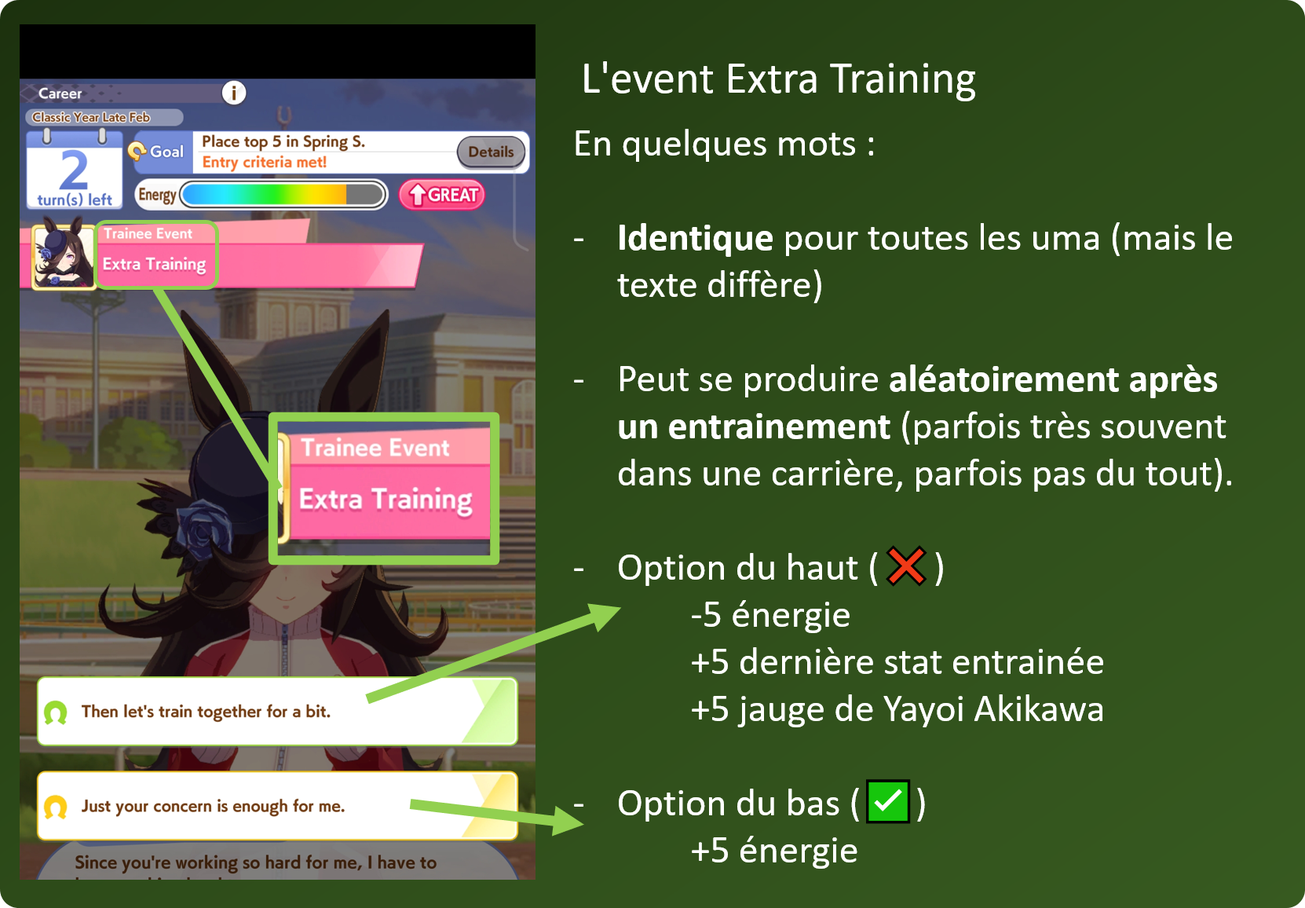
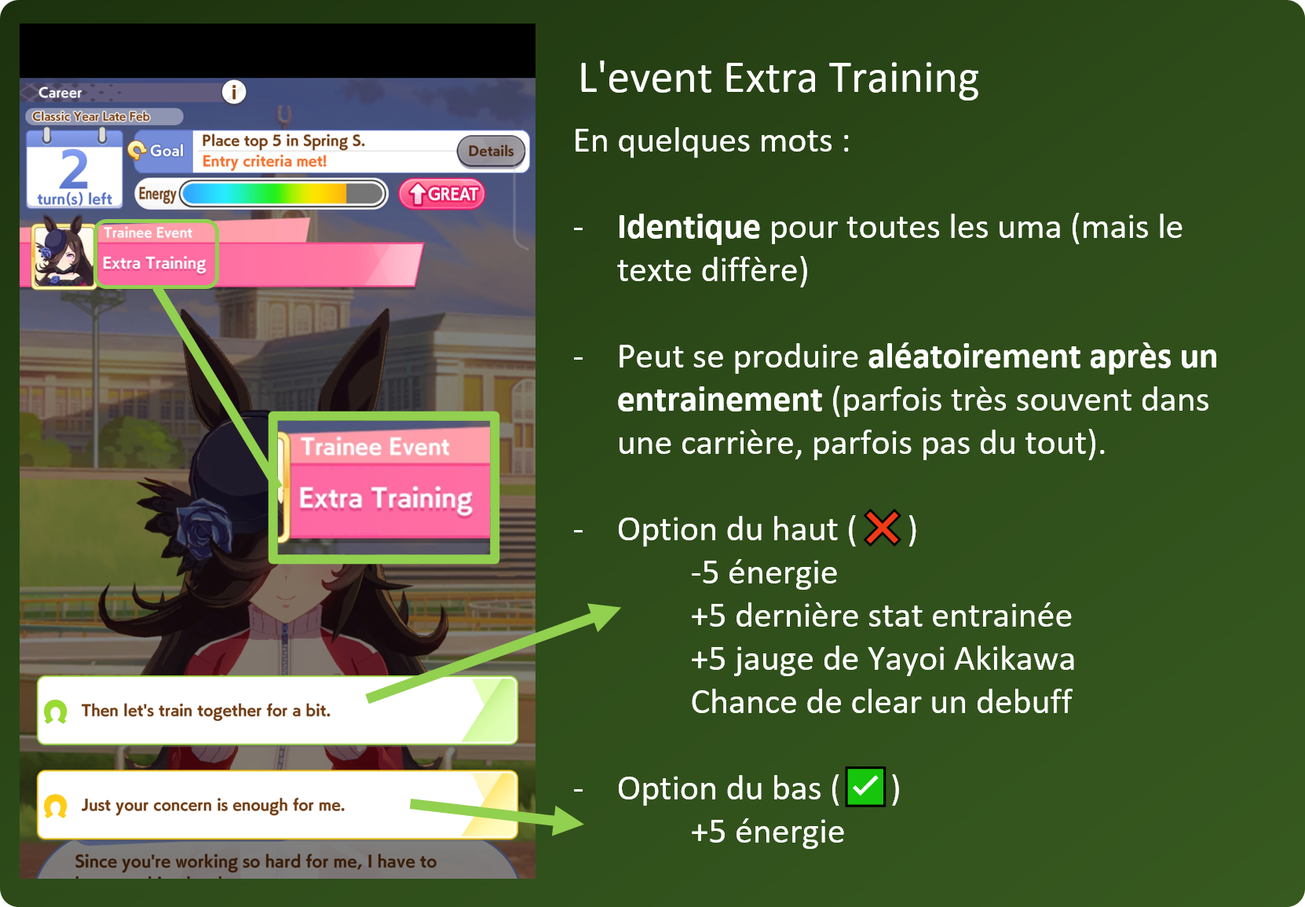
Early days : fixs et compléments

diff --git a/guides/Gameplay/Premiers_pas/early_days_-_scenario_&_stats.md b/guides/Gameplay/Premiers_pas/early_days_-_scenario_&_stats.md
@@ -17,17 +17,17 @@ Maintenant que vous avez des bonnes cartes support (on espère), et que vous ave
 
 ## Le mode carrière et ses scénarios
 
-Dans Umamusume Pretty Derby, une "run" de carrière se déroule sur environ 70~ tours pendant lesquels vous pourrez effectuer des **entrainements**, des **courses** ou des **repos**. Entre 2 tours d'une carrière, des **évènements aléatoires** peuvent se produire (rencontre/dialogue avec un autre personnage, choisi semi-aléatoirement) afin de vous donner des skills et booster davantage les stats de la uma que vous entrainez. Certains de ces évènements vous imposent un **choix à faire** qui va décider de la **récompense de l’event**. Parfois vous aurez aussi des **buffs ou debuffs** qui peuvent arriver parfaitement aléatoirement et vous suivront pendant **tous le reste de la carrière**. Mais les debuffs peuvent être retirés à l'**infirmerie** (ou aléatoirement).
+Dans Umamusume Pretty Derby, une "run" de carrière se déroule sur environ 70~ tours pendant lesquels vous pourrez effectuer des **entrainements**, des **courses** ou des **repos**. Entre 2 tours d'une carrière, des **évènements aléatoires** peuvent se produire (rencontre/dialogue avec un autre personnage, choisi semi-aléatoirement) afin de vous donner des skills et booster davantage les stats de la uma que vous entrainez. Certains de ces évènements vous imposent un **choix à faire** qui va décider de la **récompense de l’event**. Parfois vous aurez aussi des **buffs ou debuffs** qui peuvent arriver parfaitement aléatoirement et vous suivront pendant **tout le reste de la carrière**. Mais les debuffs peuvent être retirés à l'**infirmerie** (ou aléatoirement).
 
 Votre carrière se déroule toujours au sein d'un **_scénario_ de carrière**, qui sert de fil rouge et d'intrigue générale. C'est une trame narrative avec un début, des péripéties et une fin, toujours identiques (modulo les "fins alternatives" comme les échecs, ou les différentes distances), ainsi qu'un set d'events exclusifs au scénario. La plupart de ces events sont parfaitement scriptés, et se produisent toujours de la même manière, afin de faire progresser l'intrigue du scénario (exemple : le sub-plot avec Happy Meek et son entraineuse, Aoi Kiryuin, dans le scénario URA). Mais une partie de ces évènements ont une condition d'activation précise (exemple : "Three-Legged Race", dans URA) ou complètement aléatoire (exemple : "Best Foot Forward", dans URA).
 
-Chaque scénario de carrière a ses personnages, son intrigue, et... **ses mécaniques de gameplay spécifique**. C'est difficile à illustrer pour le moment car il n'y a encore qu'un seul scénario jouable -URA Finale-, qui brille par son **absence de mécaniques**. Ça fera davantage sens pour vous quand les prochains scénario arriveront.
+Chaque scénario de carrière a ses personnages, son intrigue, et... **ses mécaniques de gameplay spécifique**. Enfin, en réalité, le tout premier scénario jouable -URA Finale- brillait par son **absence de mécaniques**. Mais à partir de Unity Cup -le 2e scénario-, tous les scénarios auront des mécaniques qui leurs sont spécifiques. 
 
 ::: details Si vous voulez un bref aperçu de ce qui nous attend.... 👀
 
 Tous les scénarios (excepté URA, mais ça changera dans le futur) ont des mécaniques qui leur sont spécifiques. Voici quelques exemples rapidement :
 
-- Dans le 2e scénario -"**Unity Cup**" (a.k.a Aoharu Hai, sur la version JP)- nous seront amenés à entrainer non seulement notre uma de carrière, mais aussi 5 teams de 3 uma, comme en mode Team Trials. Cet entrainement se fera grâce à des flammes de passsion sur vos stacks d'entrainement, qui boosteront davantage vos stats ET les stats des membres de vos teams. Tous les 6 mois il y aura un match de team qui rappelle beaucoup le Team Trials.
+- Dans le 2e scénario -"**Unity Cup**" (a.k.a Aoharu Hai, sur la version JP)- nous serons amenés à entrainer non seulement notre uma de carrière, mais aussi 5 teams de 3 uma, comme en mode Team Trials. Cet entrainement se fera grâce à des flammes de passsion -spirit burst- sur vos stacks d'entrainement, qui boosteront davantage vos stats ET les stats des membres de vos teams. Tous les 6 mois il y aura un match de team qui rappelle beaucoup le Team Trials.
 - Dans le 6e scénario -"**Grand Masters**"-, vos entrainements vous permettront d'obtenir des jetons de couleur rouge, bleu ou jaune. Après avoir obtenu 8 jetons, la combinaison des jetons que vous avez en main vous permettra d'utiliser un puissant boost de couleur (rouge, jaune ou bleu) qui dure 1 tour, afin d'augmenter très fortement la force des entrainements ou les récompenses de course. L'effet change selon l'agencement des jetons, donc il y a beaucoup de planification à faire pour obtenir l'agencement qui vous arrange.
 - Le 10 scénario -**The Twinkle Legends**- reprends un peu ce même principe de manipulation de jetons, mais le pousse à l'extrême. Si ça vous intéresse, j'ai écrit un [guide sur ce scénario en français](https://yamakyu.notion.site/Aide-au-sc-nario-The-Twinkle-Legends-1b2b1daa914b80ffb35de4981bf806cb). C'est aussi mon scénario favoris à ce jour.
 
@@ -45,7 +45,7 @@ La plupart des carrières des uma sont un mélange de ces objectifs, mais certai
 
 ::: warning Note importante
 
-Vous avez besoin d'**un certain nombre de fans pour participer** à une course donnée, donc il est possible qu'avant les 2-3 première courses vous aillez besoin de faire une course non-obligatoire ou deux. Vous pouvez décider de la course comme bon vous semble.
+Vous avez besoin d'**un certain nombre de fans pour participer** à une course donnée, donc il est possible qu'avant les 2-3 première courses vous ayze besoin de faire une course non-obligatoire ou deux. Vous pouvez décider de la course comme bon vous semble.
 
 :::
 
@@ -83,7 +83,7 @@ Après avoir terminé le scénario, votre uma de carrière deviendra une Veteran
 
 Fondamentalement, le but d'une carrière, c'est de **monter les stats** de votre umamusume et lui faire apprendre des skills, afin qu'elle puisse participer à des courses hors de la carrière (Daily races, courses évènementielles, Team Trials, etc). Vous aurez aussi des opportunités pour **augmenter les aptitudes** de course de votre uma, à des moments précis du scénario. Ce n'est pas toujours nécessaire cela dit. En revanche, monter les stats de votre uma est votre objectif principal.
 
-De manière générale, **le tout dernier scénario disponible dans le jeu est toujours le plus puissant** (sur JP il y a eu 1 exception jusqu'à présent), et ce sera toujours celui que vous voudez faire le plus souvent. URA Finale est un scénario notablement faible, sur lequel vous devez faire des compromis, mais plus tard des scénarios puissants permettront une vraie croissance des stats de vos uma en carrière.
+De manière générale, **le tout dernier scénario disponible dans le jeu est toujours le plus puissant** (sur JP il y a eu 1 exception jusqu'à présent), et ce sera toujours celui que vous voudrez faire le plus souvent. URA Finale est un scénario notablement faible, sur lequel vous devez faire des compromis, mais plus tard des scénarios puissants permettront une vraie croissance des stats de vos uma en carrière.
 
 Toutes les uma ont des "stats de base" ainsi que des "aptitudes de base", que vous allez pouvoir faire évoluer pendant le scénario. 
 
@@ -98,13 +98,21 @@ Par contre, toutes les uma ne sont pas égales en termes d'aptitudes ; certaines
 [![Image montrant une build terminée de Rice Shower, avec une mise en valeur de ses stats et aptitudes, pour illustre l'utilité de chaque aptitude](/assets/EarlyDays/Stats_Aptitudes.png)](/assets/EarlyDays/Stats_Aptitudes.png)
 
 Les **stats** (ou "attributs") décrivent à quel point votre uma :
-- va sprinter **vite** en fin de course → **speed**
-- va **accélérer** vivement vers cette vitesse de sprint en fin de course → **power**
-- va sprinter **longtemps** en fin de course → **stamina**
-- va **conserver son énergie** pendant son sprint de fin de course → **guts**
-- va se **positionner** de manière optimale pendant la course, _avant_ son sprint final → **wits**
+- va sprinter **vite** en fin de course → **speed** :speed:
+- va **accélérer** vivement vers cette vitesse de sprint en fin de course → **power** :power:
+- va sprinter **longtemps** en fin de course → **stamina** :stamina:
+- va **conserver son énergie** pendant son sprint de fin de course → **guts** :guts:
+- va se **positionner** de manière optimale pendant la course, _avant_ son sprint final → **wits** :wit:
 
-**Améliorer les stats de votre uma sera votre principal objectif pendant sa carrière**, au travers de multiples entrainements. La plupart du temps, si vous n'avez pas de course obligatoire à réaliser dans l'immédiat, vous allez généralement vouloir vous entrainer si raisonnablement possible, afin d'améliorer les stats.
+::: tip Description simplifiée
+
+Plusieurs de ces stats ont en réalité **plusieurs rôles**, mais comme vous débutez ce n'est pas pertinent de vous embrouiller avec ça pour le moment. De plus, ces usages alternatifs évoluent à mesure que le jeu évolue. Ainsi, sur la version JP (4 ans et demi d'avance), les stats power :power:, stamina :stamina:, guts :guts: et wits :wit: sont impliquées dans **plusieurs mécaniques de course additionnelles**, en plus de leurs rôles principaux décrits à l'instant.
+
+Sur la version globale, guts est utilisé dans les mécaniques de "Spot Struggle" et "Dueling". On en parlera pas beaucoup dans ce guide, pour ne pas vous embrouiller.
+
+:::
+
+**Améliorer les stats de votre uma sera votre principal objectif pendant sa carrière**, au travers de multiples entrainements. La plupart du temps, si vous n'avez pas de course obligatoire à réaliser dans l'immédiat, alors vous allez généralement vouloir vous entrainer, si raisonnablement possible, afin d'améliorer les stats.
 
 Les **aptitudes** de votre uma décrivent l'expertise qu'à votre uma pour :
 - **accélérer** sur un **terrain** donné → aptitude de **terrain** 
@@ -113,7 +121,7 @@ Les **aptitudes** de votre uma décrivent l'expertise qu'à votre uma pour :
 
 Les aptitudes d'une uma évoluent de manière plus rigides que les stats, et ne peuvent être augmentées qu'à 3 moments de la carrière :
 - pendant un des 2 "inspiration events" de la carrière (non garanti)
-- là maintenant tout de suite, **au lancement d'une carrière**, en sélectionnant des legacies (garanti), comme on va voir dans un instant
+- là maintenant tout de suite, **au lancement d'une carrière**, en sélectionnant des legacies (garanti), comme on va le voir dans un instant
 
 -----------
 

diff --git a/guides/Gameplay/Premiers_pas/early_days_-_what_next.md b/guides/Gameplay/Premiers_pas/early_days_-_what_next.md
@@ -37,7 +37,7 @@ Si vous souhaitez prendre de l'avance et avoir un aperçu de comment build vos t
 
 :::
 
-**Vous pouvez participer à une session de Team Trials !** C'est une compétition basée sur le **score**, et vous obtenez un score plus ou moins élevé selon de nombreux critères (dont l'activation de skills, ou l'obtention de la victoire). Sur l'écran de Team Trials, sélectionnez un adversaire (on préfèré généralement affronter celui du haut, mais peu importe en l'occurrence). Vous verrez vos équipes et les siennes affichées, ainsi que l'humeur des différentes uma (aléatoire). Vous pouvez ensuite lancer la session, et tenter votre chance sur les 5 courses : sur surface **turf** il y'a une course **sprint**, une **mile**, une **medium** et une **long**, et sur surface **dirt c'est toujours mile** (en Team Trials). Vous n'êtes pas obligé de regarder les courses (il y'en a 5), mais vous pouvez si ça vous amuse. Autrement, vous pouvez skip et voir direcement les résultats.
+**Vous pouvez participer à une session de Team Trials !** C'est une compétition basée sur le **score**, et vous obtenez un score plus ou moins élevé selon de nombreux critères (dont l'activation de skills, ou l'obtention de la victoire). Sur l'écran de Team Trials, sélectionnez un adversaire (on préfère généralement affronter celui du haut, mais peu importe en l'occurrence). Vous verrez vos équipes et les siennes affichées, ainsi que l'humeur des différentes uma (aléatoire). Vous pouvez ensuite lancer la session, et tenter votre chance sur les 5 courses : sur surface **turf** il y'a une course **sprint**, une **mile**, une **medium** et une **long**, et sur surface **dirt c'est toujours mile** (en Team Trials). Vous n'êtes pas obligé de regarder les courses (il y'en a 5), mais vous pouvez si ça vous amuse. Autrement, vous pouvez skip et voir directement les résultats.
 
 Une session de Team Trials consomme **un RP** (Race Point), qui se recharge **toutes les 2 heures**, et vous pouvez en avoir 5 à la fois ! N'hésitez pas à régulièrement jouer en Team Trials, pour **monter en classe** et obtenir des **récompenses chaque semaine** !
 
@@ -53,7 +53,7 @@ Faites moi confiance, **la carence en monnies arrive *très très vite***.
 
 :::
 
-À titre informatif, voici à quoi va commnecer à ressembler vos équipes de Team Trials, à mesure que vous faites des carrières ! N'essayez pas forcément de refaire exactement ces teams, c'est encore un work in progress, il y a quelques soucis, et pour certaines uma j'ai fait des ajustements d'aptitudes. ~~C'est juste que j'ai pas d'autre image d'illustration à vous montrer et ça commmence à faire beaucoup de texte~~
+À titre informatif, voici à quoi va commnencer à ressembler vos équipes de Team Trials, à mesure que vous faites des carrières ! N'essayez pas forcément de refaire exactement ces teams, c'est encore un work in progress, il y a quelques soucis, et pour certaines uma j'ai fait des ajustements d'aptitudes. ~~C'est juste que j'ai pas d'autre image d'illustration à vous montrer et ça commmence à faire beaucoup de texte~~
 
 ![Mes teams de Team Trials](/public/assets/EarlyDays/YK_Team_Trials_WIP.png)
 
@@ -138,7 +138,7 @@ Désolé si vous pensiez que j'avais terminé, voici des dernières recommandati
 
 N'importe lequel ! Ça n'a pas d'importance pour le moment ! Rejoignez un club avec des randoms, c'est pas grave. À partir du moment où **vous existez dans un club, avant le 15 ou le 16 du mois** en cours, vous êtes **garantis** d'obtenir **AU MOINS 225 carats** au début du mois suivant. Certains clubs sont particulièrement actifs, et vous permettront d'obtenir bien plus de carats mensuels (jusqu'à 4500 par mois mais _bon courage hein_), mais TOUS LES CLUBS vous donnent au moins 225 carats par mois, quelle que soit le nombre de joueur·euse·s qui y sont, et quelle que soit leur niveau d'activité.
 
-Le rank d'un club est évalué sur le **nombre de fans obtenus chaque mois**, en carrière et Team Trials. Donc les clubs les plus actifs et les mieux rankés requièrent que vous jouillez abondamment au jeu !
+Le rank d'un club est évalué sur le **nombre de fans obtenus chaque mois**, en carrière et Team Trials. Donc les clubs les plus actifs et les mieux rankés requièrent que vous jouiez abondamment au jeu !
 
 ::: tip Ne vous y attachez pas
 
@@ -191,7 +191,7 @@ La carte est gratuite, et vous en obtenez des doublons en échange d'une monnaie
 
 Vous pouvez [jeter un oeil à **uma.moe**](https://uma.moe/timeline) pour avoir un aperçu de l'arrivée des différentes bannières uma et support. C'est une ESTIMATION, uma.moe ne connait pas les dates à l'avance, c'est juste un calcul basé sur l'accélération du jeu sur la version globale. 
 
-Pour aller plus loin, vous pouvez calculer des esimations de l'accumulation de vos carats d'ici une bannière qui vous intéresse, [en utilisant le **Henry Handsome Derby's Banner Timeline Carat Calculator 3.0**](https://www.youtube.com/watch?v=DSXauk_WMgE) ~~featuring Dante from the Devil May Cry series & Knuckles~~. Vous n'avez pas vraiment besoin de vous en préoccuper pour le moment, mais c'est bien de savoir que c'est là !
+Pour aller plus loin, vous pouvez calculer des estimations de l'accumulation de vos carats d'ici une bannière qui vous intéresse, [en utilisant le **Henry Handsome Derby's Banner Timeline Carat Calculator 3.0**](https://www.youtube.com/watch?v=DSXauk_WMgE) ~~featuring Dante from the Devil May Cry series & Knuckles~~. Vous n'avez pas vraiment besoin de vous en préoccuper pour le moment, mais c'est bien de savoir que c'est là !
 
 ::: warning À prendre avec des pincettes
 
@@ -201,7 +201,7 @@ ATTENTION, ce post a été écrit AVANT la sortie globale, et mériterai quelque
 
 :::
 
-Je ne le rappelerai jamais assez, mais si vous souhaitez progresser dans le jeu et vous améliorer, c'est votre **collection de cartes support** qu'il faut enrichir ! Vous pouvez bien évidemment pull **vos uma fav** quand elles arrivent, mais si vous dépensez continuellement vos carats sur les bannières umamusue, votre collection de cartes support va en patir, ce qui ralentira votre progression.
+Je ne le rappelerai jamais assez, mais si vous souhaitez progresser dans le jeu et vous améliorer, c'est votre **collection de cartes support** qu'il faut enrichir ! Vous pouvez bien évidemment pull **vos uma fav** quand elles arrivent, mais si vous dépensez continuellement vos carats sur les bannières umamusume, votre collection de cartes support va en patir, ce qui ralentira votre progression.
 
 Visez sélectivement les bannières de cartes support 👌🏿 Au début du jeu, faites quelques pulls pour avoir des cartes SR, et après **économisez** ! Quand vous avez déjà quelques SRs avec quelques LB, pour avoir une **bonne valeur ajoutée sur vos cartes support**, vous allez vouloir **_spark une bannière_** avec une bonne carte SSR. Ça vous permettra d'avoir des LB supplémentaires pour les cartes SRs, et surtout une **garantie d'obtenir au moins 1 exemplaire de la carte SSR** de la bannière. Autant que raisonnablement possible, évitez les pull par-ci par-là, et essayez d'économiser 30000 carats (un spark) pour pouvoir faire 200 pulls d'un coup sur une bonne bannière !
 

diff --git a/guides/Gameplay/Premiers_pas/early_days_-_first_career_p1.md b/guides/Gameplay/Premiers_pas/early_days_-_first_career_p1.md
@@ -133,7 +133,7 @@ La **6e carte** est une carte **empruntée** à un·e de vos follow ; n'hésitez
 Au lancement, l'animation d'inspiration se jouera pour vous montrer les bonus apporté par vos legacies. Ce sont exactement les **mêmes bonus qu'affichés sur l'écran de choix de legacies**, mais vous y verrez aussi l'obtention de **leurs skills uniques**, si elles sont capable de le transmettre. 
 
 Le jeu vous demandera ensuite si vous voulez raccourcir les cutscenes pendant le scénario. La plupart des joueur·euse·s expérimenté·e·s le font, car on connait déjà le contenu du scénario (ou on ne s'y intéresse pas). Avec toutes ses cutscenes, **un scénario peut durer plusieurs heures**, d'où l'intérêt de raccourcir. Vous pouvez changer ce paramètre à tout moment pendant la carrière, en cliquant sur "Quick" en bas de l'écran de jeu. Les 4 options sont :
-- **D'ont use Quick Mode** → toutes les cutscenes sont normales
+- **Don't use Quick Mode** → toutes les cutscenes sont normales
 - **Shorten all events** → toutes les cutscenes qui peuvent l'être sont raccourcies, et vous n'aurez qu'un résumé des dialogues, plutôt que les dialogues complets
 - **Only shorten scenario events** → toutes les cutscenes liées au **scénario de carrière** sont raccourcies (si possible), avec un résumé des events
 - **Only shorten trainee events** → toutes les cutscenes liées à **votre uma** sont raccourcies (si possible), avec un résumé des events.
@@ -164,9 +164,9 @@ Vous pouvez aussi décider de participer à une course, **non obligatoire**, pen
 
 Si vous ne faites ni un entrainement, ni une course, vous avez le choix entre 3 manières de **passer votre tour** : 
 - Le "**rest**", qui est un repos normal, afin de récupérer de l'énergie. Un repos peut aléatoirement se passer :
-    - très bien → event "well rested" → +70 pts d'énergie
+    - très bien → event "well rested" → +70 pts d'énergie, et une chance de clear le debuff **Night Owl** ou **Skin Outbreak**
     - bien → event "all refreshed" → +50 pts d'énergie
-    - mal → event "sleep deprived" → +30 pts d'énergie, et parfois le debuff "Night Owl"
+    - mal → event "sleep deprived" → +30 pts d'énergie, et parfois le debuff **Night Owl**
 - "**Recreation**", qui permet de faire une sortie ludique et relaxante avec votre uma, afin d'**augmenter son niveau d'humeur**. La plupart des _outings_ augmente d'un niveau votre humeur, et redonne un peu d'énergie, mais le **karaoke** montera de 2 niveaux votre humeur (sans gain d'énergie).
 - Et le bouton "**infirmerie**" qui n'est cliquable que si vous avez un debuff à soigner (comme "Night Owl", que vous aurez souvent). L'infirmerie vous restaure toujours 20 pts d'énergie, et a une chance élevée (mais non garantie) de faire disparaître votre debuff.
 
@@ -527,7 +527,7 @@ De manière générale, **il n'y a pas de stratégie meilleure que d'autre**. Le
 - être en 3e, 2e ou 1e position
 - avoir une autre uma immédiatement à côté d'elle pendant 2 secondes
 
-Ce sont des conditions plus facile à valider en tant que **Front Runner**, mais qui peuvent aussi être validées en tant que Pace Chaser sans souci. De son côté, Rice Shower doit dépasser la uma en 4e, 3e, 2e ou 1e position sur le final straight pour activer son unique, donc son unique est plus facile à activer en étant Pace.
+Ce sont des conditions plus facile à valider en tant que **Front Runner**, mais qui peuvent aussi être validées en tant que Pace Chaser sans souci. De son côté, Rice Shower doit dépasser la uma en 4e, 3e, 2e ou 1e position, à partir du final corner (ou plus tard) ; son unique s'activera alors -peu après- sur le final straight. Pour Rice, l'activation est donc plus facile en étant Pace.
 
 ::: tip Toujours sur le paddock...
 
@@ -684,10 +684,14 @@ Pour rappel, vous voulez continuer à monter vos supports jusqu'au niveau **oran
 [![Brève explication de l'évènement Extra Training](/assets/EarlyDays/Scen_Extra_Tore.png)](/assets/EarlyDays/Scen_Extra_Tore.png)
 
 Il est possible qu'après certains entrainements, vous ayez un évènement appelé **Extra Training**. Toutes les uma peuvent avoir cet évènement, et il s'appelle pareil pour toutes. Il se produit aléatoirement après un entrainement ; des fois vous l'aurez plein de fois dans une même carrière, et des fois pas du tout. C'est aléaoire. L'évènement vous propose alors 2 choix :
-* Haut : **-5 énergie**, +5 points sur la dernière stat entrainée et +5 point de jauge avec Yayoi (directrice)
+* Haut : 
+    * **-5 énergie**
+    * +5 points sur la dernière stat entrainée
+    * +5 point de jauge avec Yayoi (directrice)
+    * une **chance** de clear un debuff (si vous en avez)
 * Bas : **+5 énergie**
 
-Dans la vaste majorité des cas, **vous allez vouloir prendre l'option du bas**, car l'option du haut est un peu un gachi de précieuse énergie. Si votre énergie est pleine (totalement pleine), vous pouvez sélectionner celle du haut ; le gain de jauge avec Yayoi Akikawa sera utile plus tard. Mais 99% du temps, gagner **+5 pts d'énergie est bien plus précieux**. Si vous avez un doute, prenez l'option du bas.
+Dans la vaste majorité des cas, **vous allez vouloir prendre l'option du bas**, car l'option du haut est un peu un gachi de précieuse énergie. Cependant, si votre énergie est pleine (totalement pleine), ou si vous avez un **debuff** vous pouvez sélectionner celle du haut : dégager le debuff (non garanti) est bénéfique pour des raisons évidentes, et le gain de jauge avec Yayoi Akikawa ~~est un outil mystère qui~~ sera utile plus tard. Mais 99% du temps, gagner **+5 pts d'énergie est bien plus précieux**. Si vous avez un doute, prenez l'option du bas.
 
 ::::: tip Un autre event similaire
 

diff --git a/guides/Gameplay/Premiers_pas/early_days_-_before_starting.md b/guides/Gameplay/Premiers_pas/early_days_-_before_starting.md
@@ -45,7 +45,7 @@ Obtenir des uma ★★★ sur un reroll n'a que peu de valeur -sauf si c'est une
 
 Si votre fav est en highlight sur une bannière quand vous commencez le jeu, **by all means go for it**. Avoir votre fav dés le début (ce qui est facilité par une bannière dédiée) rendra le jeu d'autant plus fun 🌟
 
-Vérifiez quand même que votre fav n'est pas obtensible par un des tickets que vous pouvez obtenir très vite au début du jeu (on en reparle dans la dernière partie du guide pas-à-pas).
+Vérifiez quand même que votre fav ne peut pas être obtenue par un des tickets que vous aurez très vite au début du jeu (on en reparle dans la dernière partie du guide pas-à-pas).
 
 :::
 
@@ -80,7 +80,7 @@ Il y a aussi d'autres cartes d'assez bonne qualité parmi les SR et SSR, et qui 
 
 Ni la liste ni l'image ne sont exhaustifs. Mais ce sont les principaux highlights.
 
-Les cartes wits SR sont génériquement bonnes _pour la plupart_, donc elles n'ont pas de valeur particulière dans un reroll (mais leur _absence_ est un peu un problème), sauf si vous arrivez à avoir plusieurs LBs sur 1 ou 2 d'entres elles. Pour le moment, **vous pouvez ignorer les cartes guts, même SSR**.
+Les cartes wits SR sont génériquement bonnes _pour la plupart_, donc elles n'ont pas de valeur particulière dans un reroll (mais leur _absence_ est un peu un problème), sauf si vous arrivez à avoir plusieurs LBs sur 1 ou 2 d'entres elles. Comme vous débutez, **vous pouvez ignorer les cartes guts, même SSR**. Elles auront davantage de pertinence plus tard, mais c'est bien trop tôt pour vous en soucier, car leur usage ne sera pas aussi universel que -par exemple- les cartes speed :speed:, stamina :stamina: ou wits :wit:.
 
 :::: tip On ne le dira jamais assez
 

diff --git a/guides/Gameplay/Premiers_pas/early_days_-_first_career_p2.md b/guides/Gameplay/Premiers_pas/early_days_-_first_career_p2.md
@@ -243,7 +243,7 @@ L'évènement "**New Year's Shrine Visit**" est très similaire à l'event "New 
 
 Et surtout, sur cet event aussi, le choix optimal c'est le **gain d'énergie**. En l'occurrence, sur New Year's Shrine Visit il s'agit de **l'option du haut**. Pour toutes les uma, si votre énergie n'est pas pleine, vous allez vouloir pick l'option du haut, afin de récupérer **+30 points d'énergie**. C'est toujours optimal, sauf si vous êtes -par exemple- seulement 10 points en-dessous du max, ou déjà au maximum. 
 
-#### 🌟 Pendant l'event "New Year's Shrine Visit", choisissez l'option du haut si votre énergie est pleine à au moins 80%
+#### 🌟 Pendant l'event "New Year's Shrine Visit", choisissez l'option du haut si votre barre d'énergie est pleine à moins de 80%
 
 
 Là encore, dans l'éventualité où vous n'avez pas besoin de l'énergie supplémentaire, l'option à choisir est alors **l'option du bas**, pour obtenir **+35 skills points**. 
